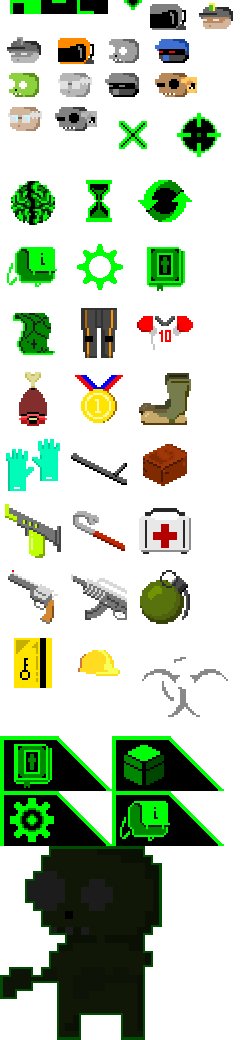
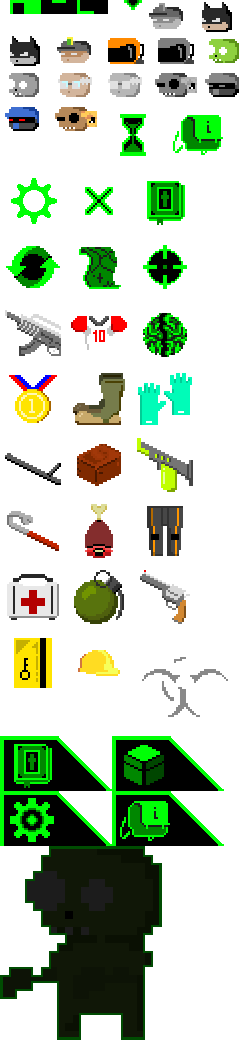
batman character

diff --git a/server/Level.cpp b/server/Level.cpp
@@ -9,6 +9,7 @@
 #include "characters/Scientist.hpp"
 #include "characters/Guard.hpp"
 #include "characters/Hazmaster.hpp"
+#include "characters/Batman.hpp"
 #include "structures/Wall.hpp"
 #include "structures/Door.hpp"
 #include "structures/Chest.hpp"
@@ -99,6 +100,7 @@ void Level::load(GameplayServer* _server, LevelLoader::Level &levelDef)
     runners.push_back(new LevelRunner<Scientist>(this, &scientists));
     runners.push_back(new LevelRunner<Guard>(this, &guards));
     runners.push_back(new LevelRunner<Hazmaster>(this, &hazmasters));
+    runners.push_back(new LevelRunner<Batman>(this, &batmans));
     runners.push_back(new LevelRunner<Wall>(this, &walls));
     runners.push_back(new LevelRunner<Door>(this, &doors));
     runners.push_back(new LevelRunner<Chest>(this, &chests));
@@ -331,6 +333,19 @@ void Level::load(GameplayServer* _server, LevelLoader::Level &levelDef)
                         c = hazmaster;
                         break;
                     }
+                    case Character::Type::Batman:
+                    {
+                        Batman* batman = new Batman();
+                        batman->load(this, server->getNextBodyId(), t->schema.x, t->schema.y);
+                        batman->moveToPosition(t->schema.x, t->schema.y);
+                        batmans.push_back(batman);
+                        batman->hostilityCheckAi = AiRoutines::Combat::Generic_DetectHostility;
+                        batman->combatDetectionAi = AiRoutines::Combat::Default_DetectCombat;
+                        batman->combatDecisionAi = AiRoutines::Combat::Coverless_DecideCombat;
+                        batman->getStartingDialog = std::bind(&Level::getDialogTree, this);
+                        c = batman;
+                        break;
+                    }
                 }
 
                 if(c)
@@ -528,24 +543,9 @@ void Level::enterCombat()
         // TODO: Can't we use the Character metalist?
 
         // Move every character into the turn queue
-        for(unsigned int i=0; i < zombies.size(); i++)
-            if(!zombies[i]->schema.isDead())
-                turnQueue.push_back(zombies[i]);
-        for(unsigned int i=0; i < ogres.size(); i++)
-            if(!ogres[i]->schema.isDead())
-                turnQueue.push_back(ogres[i]);
-        for(unsigned int i=0; i < hunters.size(); i++)
-            if(!hunters[i]->schema.isDead())
-                turnQueue.push_back(hunters[i]);
-        for (unsigned int i = 0; i < scientists.size(); i++)
-            if (!scientists[i]->schema.isDead())
-                turnQueue.push_back(scientists[i]);
-        for (unsigned int i = 0; i < guards.size(); i++)
-            if (!guards[i]->schema.isDead())
-                turnQueue.push_back(guards[i]);
-        for (unsigned int i = 0; i < hazmasters.size(); i++)
-            if (!hazmasters[i]->schema.isDead())
-                turnQueue.push_back(hazmasters[i]);
+        for (unsigned int i = 0; i < characters.size(); i++)
+            if (!characters[i]->schema.isDead())
+                turnQueue.push_back(characters[i]);
 
         // Sort the turn queue by initiative
         std::sort(turnQueue.begin(), turnQueue.end(), [] (Character* characterFirst, Character* characterSecond) -> bool {
@@ -667,6 +667,9 @@ void Level::removeCharacter(Character* character)
             break;
         case Character::Type::Hazmaster:
             hazmasters.erase(std::remove(hazmasters.begin(), hazmasters.end(), static_cast<Hazmaster*>(character)), hazmasters.end());
+            break;
+        case Character::Type::Batman:
+            batmans.erase(std::remove(batmans.begin(), batmans.end(), static_cast<Batman*>(character)), batmans.end());
             break;
     }
 
@@ -1324,6 +1327,9 @@ void Level::prepareSnapshot(bit::ServerPacket &packet, bit::RemoteClient& client
                         break;
                     case Character::Type::Hazmaster:
                         packNetworkBody<Hazmaster, Character>(packet, full, c, b->schema.type, c->schema.type);
+                        break;
+                    case Character::Type::Batman:
+                        packNetworkBody<Batman, Character>(packet, full, c, b->schema.type, c->schema.type);
                         break;
                 }
                 break;

diff --git a/xogeni/LevelGenerator/CellMap.cpp b/xogeni/LevelGenerator/CellMap.cpp
@@ -21,6 +21,7 @@ unsigned int CHARACTER_OGRE = 3;
 unsigned int CHARACTER_SCIENTIST = 4;
 unsigned int CHARACTER_GUARD = 5;
 unsigned int CHARACTER_HAZMASTER = 6;
+unsigned int CHARACTER_BATMAN = 7;
 
 unsigned int STRUCTURE_WALL = 1;
 unsigned int STRUCTURE_DOOR = 2;
@@ -1580,7 +1581,11 @@ unsigned int XoGeni::CellMap::getStandardEnemyTypeForDifficulty()
                 CHARACTER_HUNTER
             );
         default:
-            return CHARACTER_HUNTER; // TODO better enemy scaling
+            return LevelGenerator::random.of(
+                CHARACTER_GUARD,
+                CHARACTER_HUNTER,
+                CHARACTER_BATMAN
+            );
     }
 }
 
@@ -1593,9 +1598,9 @@ unsigned int XoGeni::CellMap::getOutOfDepthEnemyTypeForDifficulty()
         case 1:
             return CHARACTER_HUNTER;
         case 2:
-            return CHARACTER_HUNTER;
+            return CHARACTER_BATMAN;
         default:
-            return CHARACTER_HUNTER; // TODO better enemy scaling
+            return CHARACTER_BATMAN; // TODO better enemy scaling
     }
 }
 

diff --git a/server/characters/Batman.cpp b/server/characters/Batman.cpp
@@ -1,0 +1,20 @@
+#include "Batman.hpp"
+#include "../Level.hpp"
+#include "../GameplayServer.hpp"
+#include "../items/Item.hpp"
+
+Batman::Batman()
+    : Character()
+{
+    consumptionHeal = 10; // if eaten I will heal
+}
+
+void Batman::load(Level* _level, unsigned int _id, float _x, float _y)
+{
+    Character::load(_level, _id, Character::Type::Batman, _x, _y, _level->tileWidth, _level->tileHeight);
+
+    schema.maxHealth = 100;
+    schema.health = 100;
+    schema.dexterity = 3;
+    schema.strength = 4;
+}

diff --git a/client/StateGamePlay.cpp b/client/StateGamePlay.cpp
@@ -1452,6 +1452,7 @@ void StateGamePlay::handlePacket_ServerEvent(bit::ServerPacket &packet)
                     case Character::Type::Scientist:
                     case Character::Type::Guard:
                     case Character::Type::Hazmaster:
+                    case Character::Type::Batman:
                         rogueZombieGame->soundManager->play(humanCharacterDeathSoundId);
                         break;
                 }

diff --git a/server/Level.hpp b/server/Level.hpp
@@ -24,6 +24,7 @@ class Hunter;
 class Scientist;
 class Guard;
 class Hazmaster;
+class Batman;
 class Player;
 class Tile;
 class Door;
@@ -57,6 +58,7 @@ public:
     std::vector<Scientist*> scientists;
     std::vector<Guard*> guards;
     std::vector<Hazmaster*> hazmasters;
+    std::vector<Batman*> batmans;
     std::vector<Structure*> structures; // meta list
     std::vector<Wall*> walls;
     std::vector<Door*> doors;

diff --git a/server/characters/Batman.hpp b/server/characters/Batman.hpp
@@ -1,0 +1,21 @@
+#pragma once
+#ifndef RZ_BATMAN_H
+#define RZ_BATMAN_H
+
+#include "SFML/Graphics.hpp"
+#include "SFML/Network.hpp"
+#include "../../bitengine/Game.hpp"
+#include "../../bitengine/Network.hpp"
+#include "../Character.hpp"
+
+class Batman : public Character
+{
+public:
+
+    Batman();
+
+    virtual void load(Level* level, unsigned int id, float x, float y);
+
+};
+
+#endif

diff --git a/client/CharacterClient.cpp b/client/CharacterClient.cpp
@@ -33,6 +33,7 @@ void CharacterClient::reinitialize()
         case Character::Type::Scientist:
         case Character::Type::Guard:
         case Character::Type::Hazmaster:
+        case Character::Type::Batman:
             sprite.width = 40;
             sprite.height = 40;
             sprite.baseOffsetX = 20;

diff --git a/client/CharacterSprite.cpp b/client/CharacterSprite.cpp
@@ -307,6 +307,8 @@ std::string CharacterSprite::getSpriteMoniker(Character::Type t)
             return "Guard";
         case Character::Type::Hazmaster:
             return "Hazmaster";
+        case Character::Type::Batman:
+            return "Batman";
     }
 }
 

diff --git a/server/Character.cpp b/server/Character.cpp
@@ -1965,6 +1965,8 @@ std::string Character::getTitle(Character::Type type)
             return "Guard";
         case Character::Type::Hazmaster:
             return "Hazmaster";
+        case Character::Type::Batman:
+            return "Man Bat";
     }
 }
 

diff --git a/server/Character.hpp b/server/Character.hpp
@@ -34,7 +34,8 @@ public:
         Hunter,
         Scientist,
         Guard,
-        Hazmaster
+        Hazmaster,
+        Batman
     };
 
     enum EquipmentSlot
